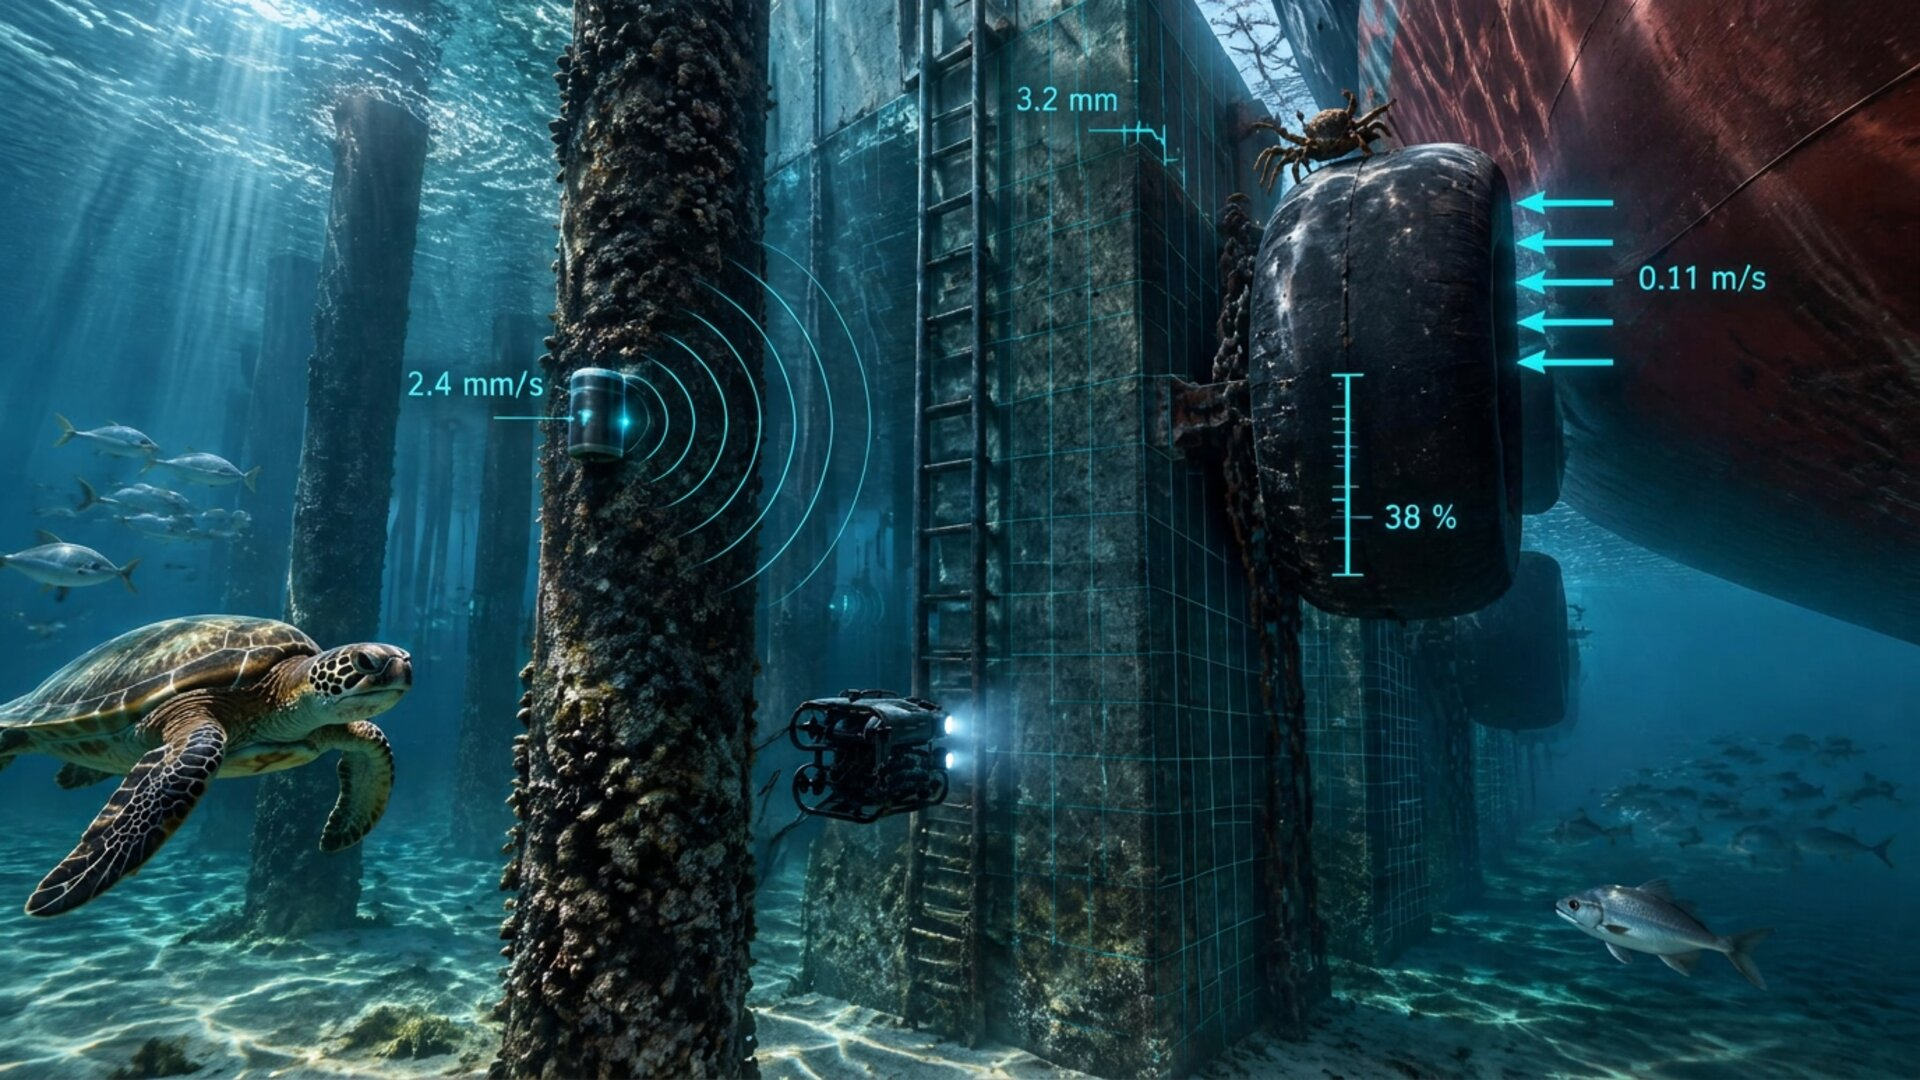
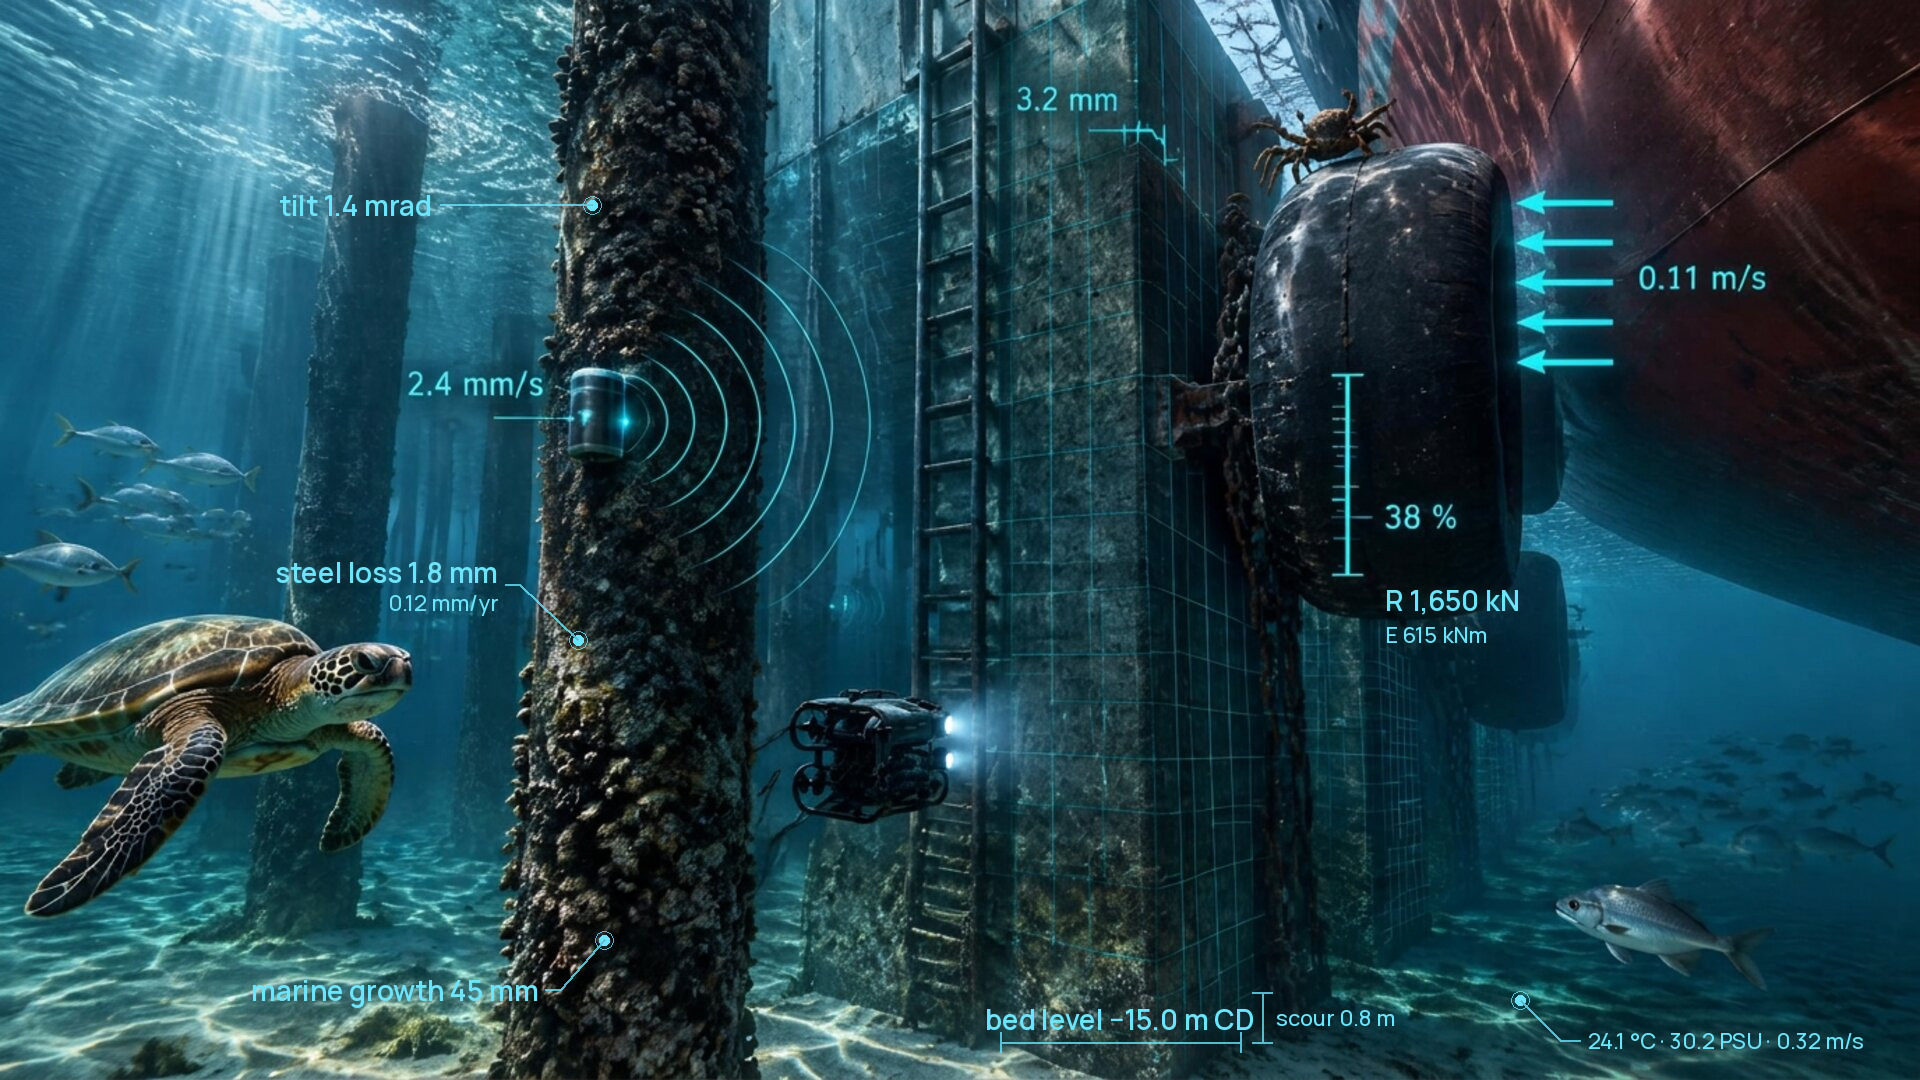
images round 4 (approved): new hero hero-port-quay-v3 (real Neo-Panamax stern, propeller and rudder separated, rings astern, HUD measurements draught 13.8 m / UKC 2.1 m / bed level -15.9 m CD / 132 dB / 1.9 mm/s), quay-wall with technical measurements (tilt, steel loss, marine growth, fender R/E, be
Claude-Session: https://claude.ai/code/session_01Tmpv7TejaTmCohVkR2vdoj

diff --git a/src/i18n/pt.ts b/src/i18n/pt.ts
@@ -479,7 +479,7 @@ export const pt: Dict = {
     eyebrow: "EMPRESA",
     title: "Um grupo global de deep tech dedicado ao mundo subaquático.",
     about:
-      "A Serenitech foi fundada por um empreendedor e um cientista que compartilham uma convicção: a infraestrutura mais crítica do planeta está parcialmente embaixo d'água e é gerida quase às cegas. A Serenitech constrói a robótica cognitiva com IA — sensoriamento, conectividade, inteligência artificial e serviços em nuvem — que dá a autoridades portuárias, operadores offshore, donos de ativos submarinos e à indústria naval visão, memória e previsão contínuas além da linha d'água. O nome diz tudo: serenidade por meio da tecnologia.",
+      "A infraestrutura mais crítica do planeta está parcialmente embaixo d'água e é gerida quase às cegas. A Serenitech constrói a robótica cognitiva com IA — sensoriamento, conectividade, inteligência artificial e serviços em nuvem — que dá a autoridades portuárias, operadores offshore, donos de ativos submarinos e à indústria naval visão, memória e previsão contínuas além da linha d'água. O nome diz tudo: serenidade por meio da tecnologia.",
     leadershipTitle: "Liderança",
     leaders: [
       {

diff --git a/src/i18n/en.ts b/src/i18n/en.ts
@@ -475,7 +475,7 @@ export const en = {
     eyebrow: "COMPANY",
     title: "A global deep-tech group dedicated to the sub-surface world.",
     about:
-      "Serenitech was founded by an entrepreneur and a scientist who share one conviction: the most critical infrastructure on Earth sits partly under water, and it is managed almost blind. Serenitech builds the AI cognitive robotics — sensing, connectivity, artificial intelligence and cloud services — that give port authorities, offshore operators, subsea asset owners and the naval industry continuous sight, memory and foresight beyond the waterline. The name says it: serenity through technology.",
+      "The most critical infrastructure on Earth sits partly under water, and it is managed almost blind. Serenitech builds the AI cognitive robotics — sensing, connectivity, artificial intelligence and cloud services — that give port authorities, offshore operators, subsea asset owners and the naval industry continuous sight, memory and foresight beyond the waterline. The name says it: serenity through technology.",
     leadershipTitle: "Leadership",
     leaders: [
       {

diff --git a/src/content/site.ts b/src/content/site.ts
@@ -33,7 +33,7 @@ export const brand = {
 } as const;
 
 export const images = {
-  heroPort: "/images/hero-port-quay-v2.jpg",
+  heroPort: "/images/hero-port-quay-v3.jpg",
   offshore: "/images/offshore-jacket.jpg",
   subsea: "/images/subsea-pipeline.jpg",
   hq: "/images/hq-passeio-sapiens-florianopolis.png",
